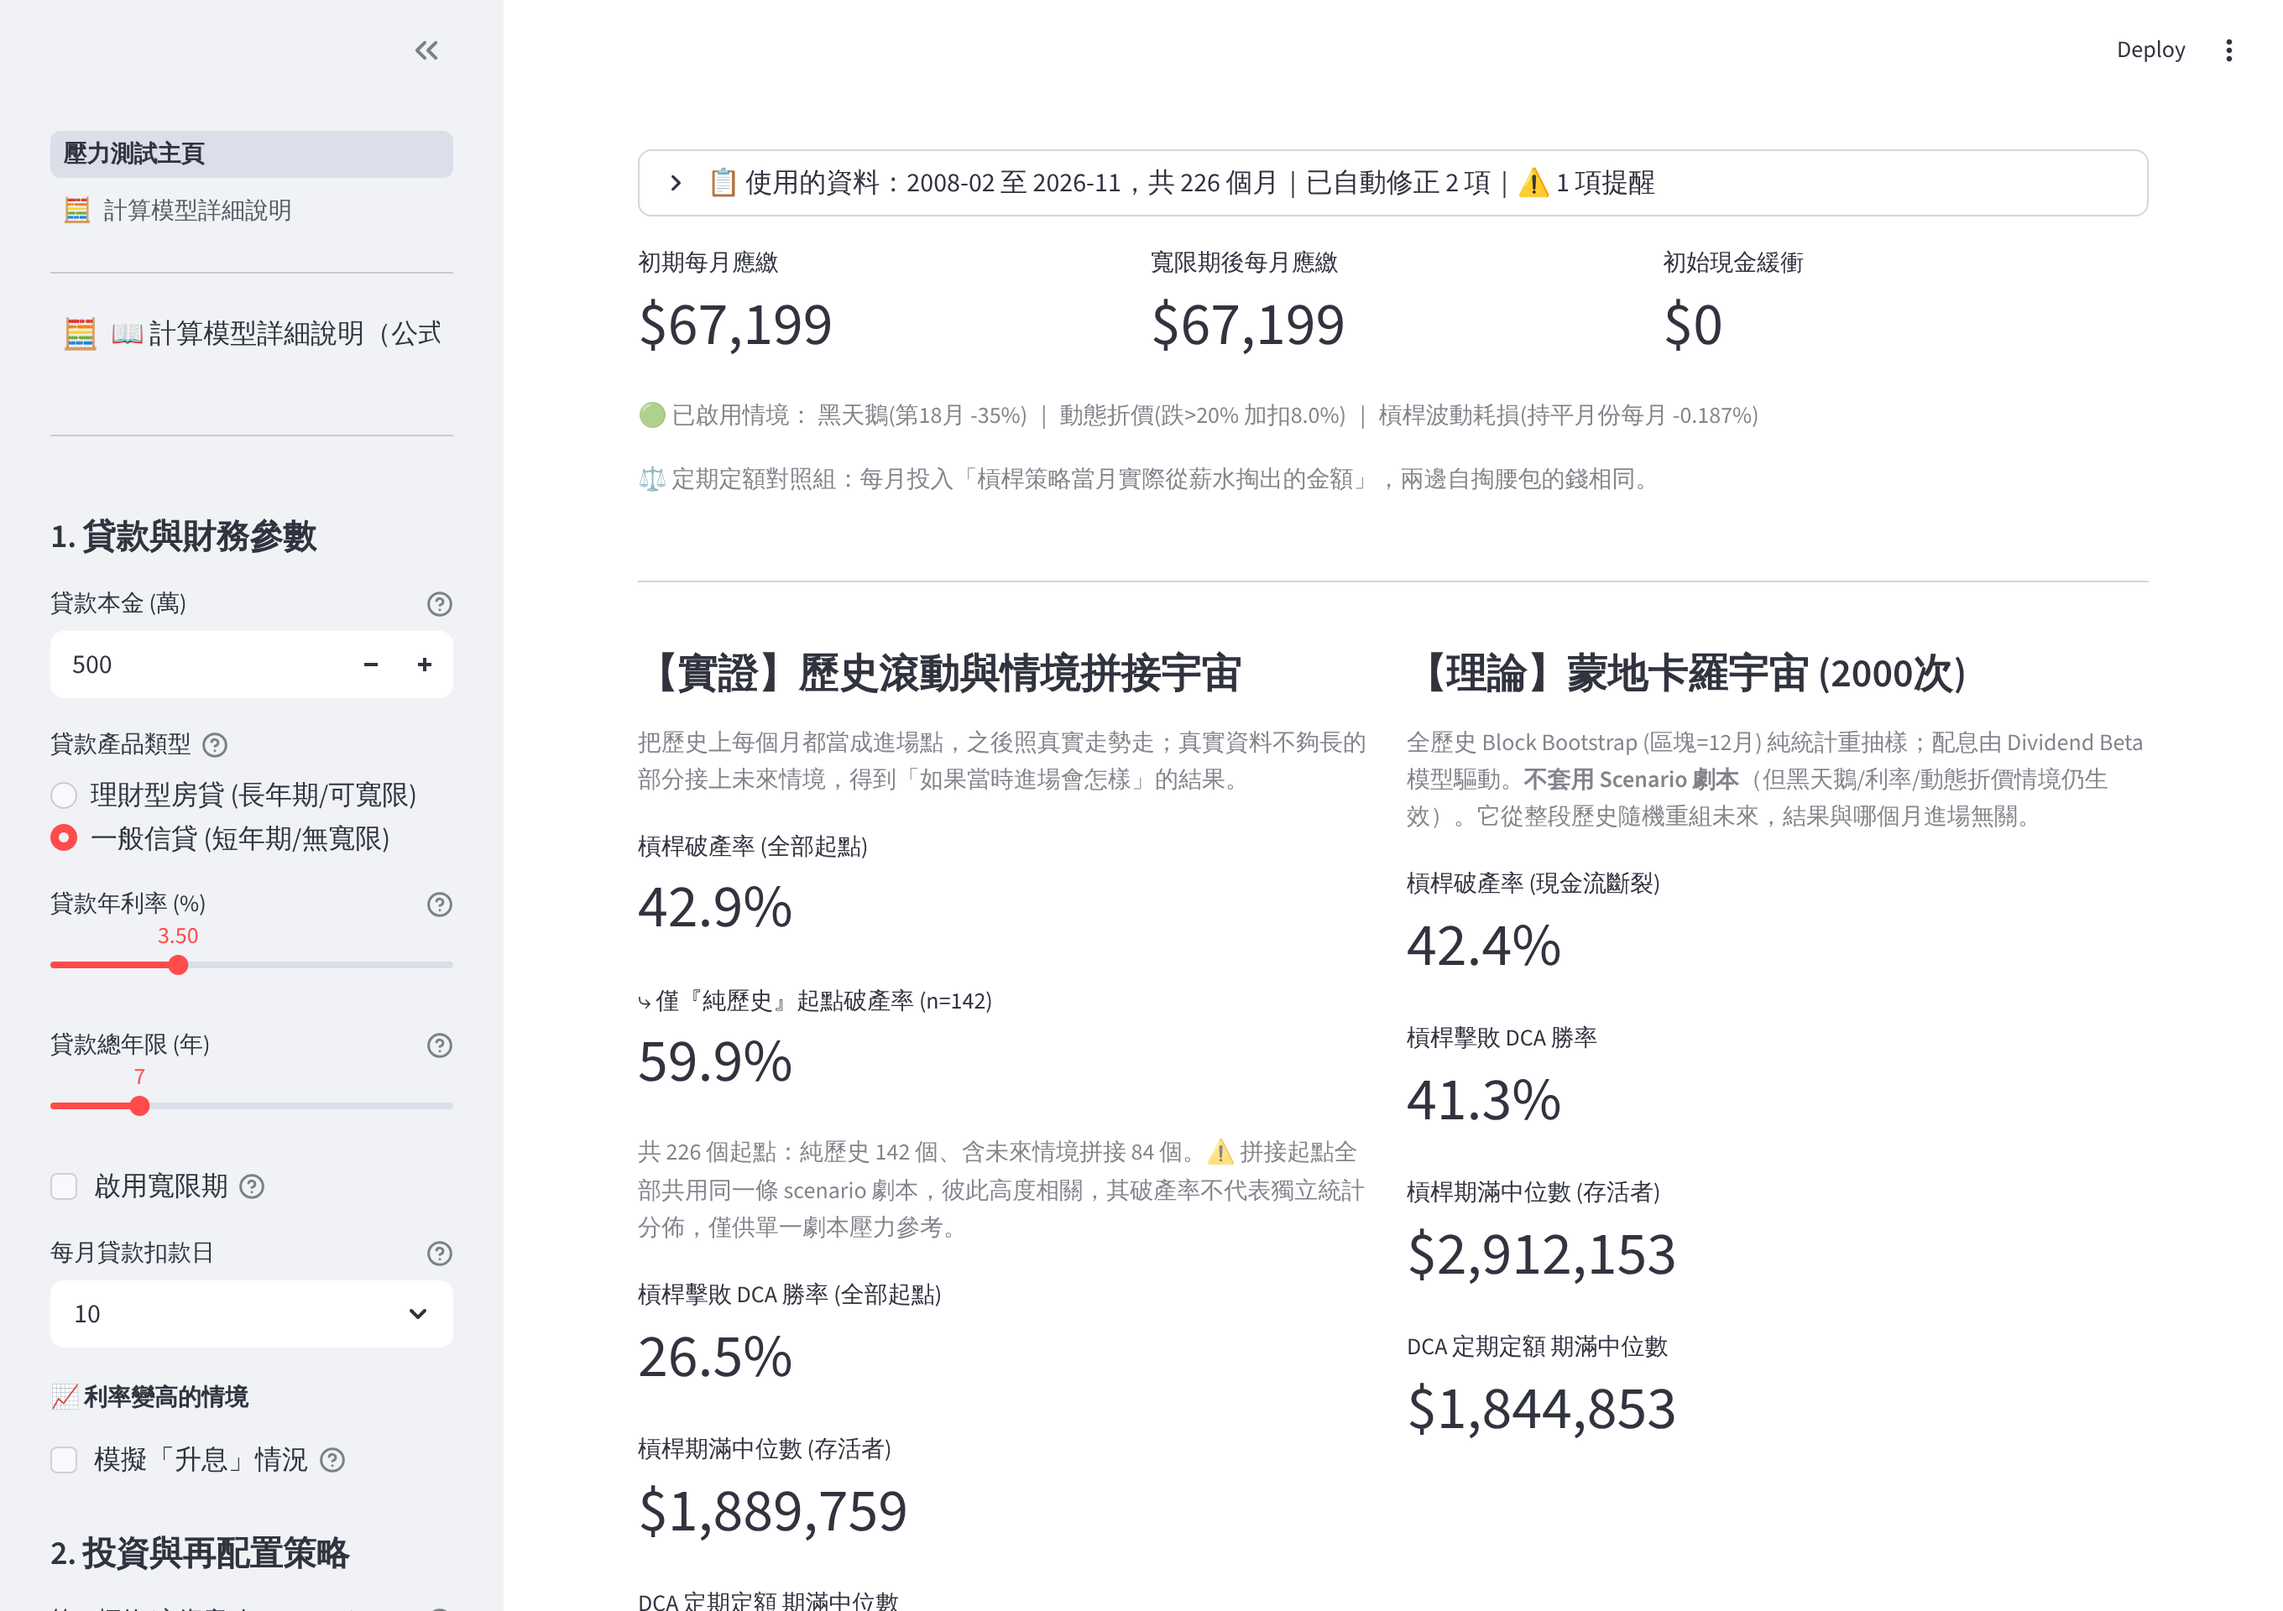
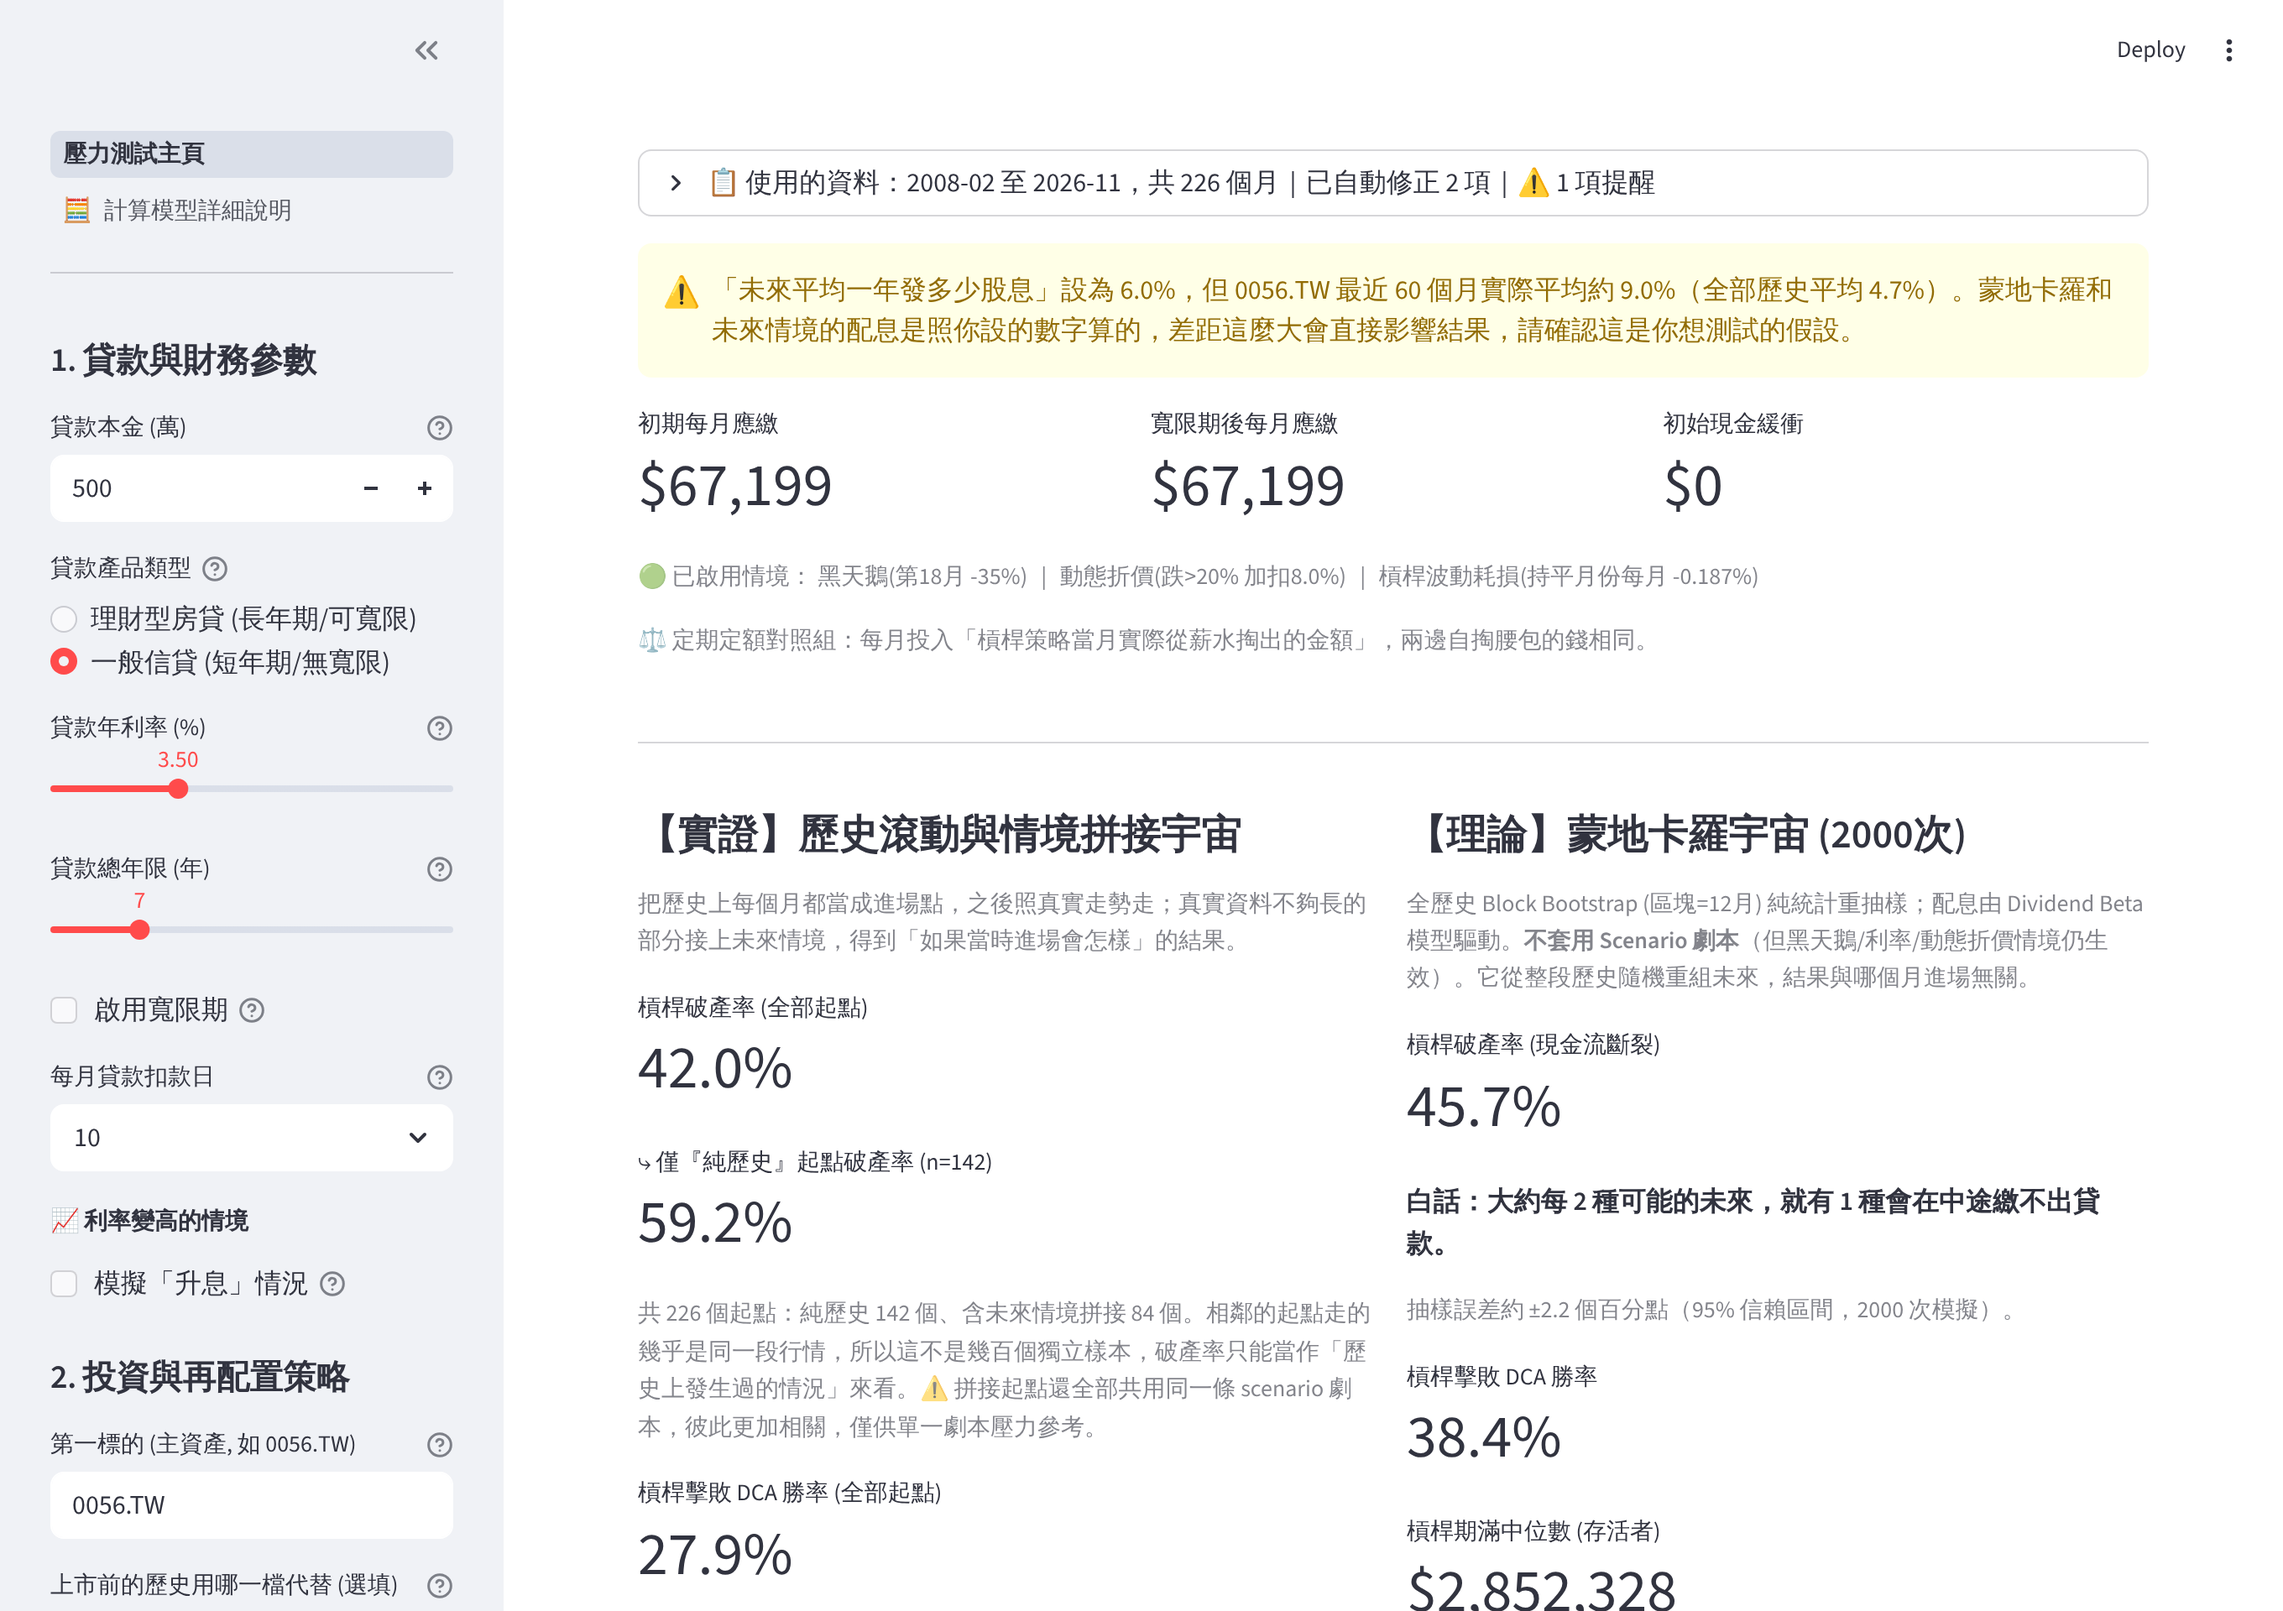
Test on Python 3.11-3.13 with lint, add changelog, refresh docs and screenshots
Claude-Session: https://claude.ai/code/session_01CintocfKHNCtdKQJB2AfRi

diff --git a/README.en.md b/README.en.md
@@ -37,6 +37,7 @@ The first month in which the payment cannot be covered, the strategy is **ruined
 - **Data checks and repairs** — splits and dividend units the data source left unadjusted are repaired and reported, outliers are flagged, and the last good download is used when the source is unreachable. See [DATA_NOTES.md](DATA_NOTES.md) (in Chinese).
 - **Job-loss scenarios** — a fixed window, or a random model in which unemployment becomes more likely when the market crashes.
 - **DCA comparison** — every path also runs a no-loan portfolio that invests monthly. By default it invests exactly what the leveraged strategy took from salary that month, so both sides put in the same money.
+- **Readable results** — the ruin rate comes with a plain-language reading and its sampling error, plus the distribution of final net worth, the timing of ruin, and CSV downloads.
 - **Shareable links** — the address bar always carries the current settings. Copy the URL to hand someone the same scenario; a page refresh keeps your inputs.
 - Every input has a plain-language tooltip, and a separate page lists the formulas and model assumptions.
 
@@ -45,6 +46,8 @@ The first month in which the payment cannot be covered, the strategy is **ruined
 | Outcome for every historical entry month | Month-by-month ledger for one entry month |
 |---|---|
 | ![Bar chart of final net worth per entry month; red bars are ruined paths, hatched bars include a spliced scenario](docs/images/rolling-history.png) | ![Net worth, the DCA comparison and the loan balance over time, with the source of each month's payment](docs/images/ledger-trace.png) |
+
+![Distribution of final net worth across Monte Carlo paths, and a histogram of the month in which ruin occurred](docs/images/distribution.png)
 
 The screenshots use this scenario, which you can reproduce by appending it to the app's URL:
 `?a=0056.TW&salary=15000&swan=1&swan_m=18&swan_d=35&hc=1&m=2019-06`
@@ -84,6 +87,7 @@ The app opens at `http://localhost:8501`.
 | `ui_state.py` | Input defaults, bounds and URL synchronisation. |
 | `pages/1_Model_Details.py` | Formulas and model assumptions. |
 | `app.py` | Entry point and page navigation. |
+| `version.py` | Version label. Changes are listed in [CHANGELOG.md](CHANGELOG.md) (in Chinese). |
 
 Using the engine without the UI:
 
@@ -106,7 +110,7 @@ print(engine.run_trace(data, params, anchor_idx=0).head())   # ledger for the fi
 python -m unittest -v
 ```
 
-The tests need no network access: the engine is checked against synthetic data, and the UI tests run the whole app on stubbed market data. GitHub Actions runs them on every push (`.github/workflows/tests.yml`).
+The tests need no network access: the engine is checked against synthetic data, and the UI tests run the whole app on stubbed market data. GitHub Actions runs them on Python 3.11, 3.12 and 3.13 on every push (`.github/workflows/tests.yml`).
 
 ## Disclaimer
 

diff --git a/CHANGELOG.md b/CHANGELOG.md
@@ -1,0 +1,42 @@
+# 更新紀錄
+
+版本號寫在 `version.py`。下面「尚未發布」的內容都在 V33 之後，合併並決定新版號時再把標題改掉。
+
+## 尚未發布
+
+同樣的設定在這一版算出來的數字會和 V33 不同，主要原因依影響大小排列：
+
+### 會改變結果的修正
+
+- **行情資料**：自動還原來源沒處理的股票分割（0050、00631L、00632R、00663L、0052）與配息單位；配息改算在除息的那一期。
+- **較長的歷史**：第一標的上市前的月份可由另一檔標的代替（預設 0056.TW）；第二標的上市前的月份保留並由第一標的推估。
+- **第二標的的推估**：不再外推歷史上的超額報酬，改用槓桿 ETF 的標準公式（複利與波動耗損一起算）。
+- **定期定額對照組**：預設每月投入「槓桿策略當月實際從薪水掏出的金額」；舊算法保留為選項。
+- **進場時點**：進場當月以該月價格買進，下個月開始繳款（原本會多算進場當月的漲跌）。
+- **配息金額**：以實際每股配息計算，不再被當月漲跌放大或縮小。
+- **黑天鵝**：逐月明細不再重複套用；跌幅下限為 -100%。
+- **寬限期**：一定短於貸款年限；選信貸時預設不啟用。
+- **首次買進**：扣手續費。
+- **蒙地卡羅**：改為環狀區塊重抽，歷史頭尾的月份不再被少抽；與進場月份脫鉤；預設固定亂數。
+- **隨機失業**：歷史引擎對每個進場月份模擬多種失業時點再平均。
+
+### 新功能
+
+- 網址列同步所有設定，可直接分享。
+- 還款順位不可重複，可明確排除某個來源。
+- 資料修正與異常提示、存檔備援（本機與隨程式部署）。
+- 蒙地卡羅結果的白話說明、抽樣誤差、期滿淨值分佈表、破產發生時間圖。
+- 歷史滾動與蒙地卡羅結果可下載 CSV。
+- 股息假設與歷史差距過大時提示。
+- App 內顯示免責聲明。
+
+### 工程
+
+- 模擬引擎獨立為 `engine.py`（不依賴 Streamlit），並檢查參數是否合理。
+- 單元測試與整合測試，GitHub Actions 在 Python 3.11／3.12／3.13 上執行並做靜態檢查。
+- 英文 README、截圖。
+- 證交所補齊近期資料的功能已寫入但預設關閉（`ETF_TWSE_TOP_UP=1` 才啟用），尚未在真實環境完整驗證。
+
+## V33
+
+重構前的版本。

diff --git a/DATA_NOTES.md b/DATA_NOTES.md
@@ -6,7 +6,10 @@
 - 每次成功取得的原始資料會存成 `.yf_cache/<代號>.csv`（不進版控）。三次都失敗時改用最近一次的存檔，畫面會標明存檔日期；連存檔都沒有才停止計算。
 - `data/snapshots/` 是隨程式一起部署的存檔，作為最後備援（例如剛部署、`.yf_cache` 還是空的時候）。目前放了預設與常用的 8 檔台股 ETF，清單與更新方式見該資料夾的 README。沒有放進去的代號，在來源連不上且沒有本機存檔時仍會停止計算。
 - 成功取得的月資料在記憶體快取一小時；側欄「重新載入行情」可清除目前幾檔標的的快取。
-- 目前只有 Yahoo Finance 一個即時來源。
+- 即時來源目前只有 Yahoo Finance。
+- 證交所補齊（實驗性，預設關閉）：設定環境變數 `ETF_TWSE_TOP_UP=1` 後，Yahoo 連不上時會用證交所的官方資料把存檔補到前一個交易日（僅限 `.TW`、缺口三個月以內）。
+  證交所一次只給一個月、請求之間要間隔約 10 秒，而且對雲端主機的請求會不定時拒絕，所以無法用來抓完整歷史。
+  2026-11-12 實測：價格與 Yahoo 逐日相符，但除權息表的請求曾連續被拒，整段流程還沒有完整成功過，因此先不啟用。任何一步失敗都會退回只用存檔。
 
 ## 月資料的定義
 
